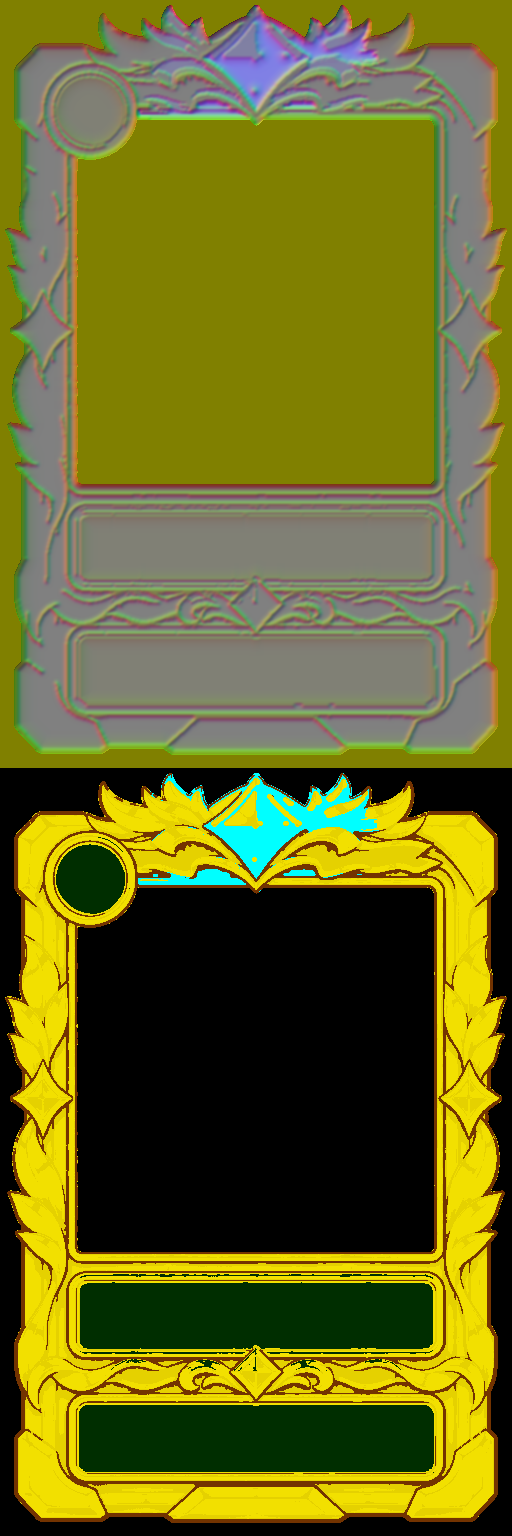
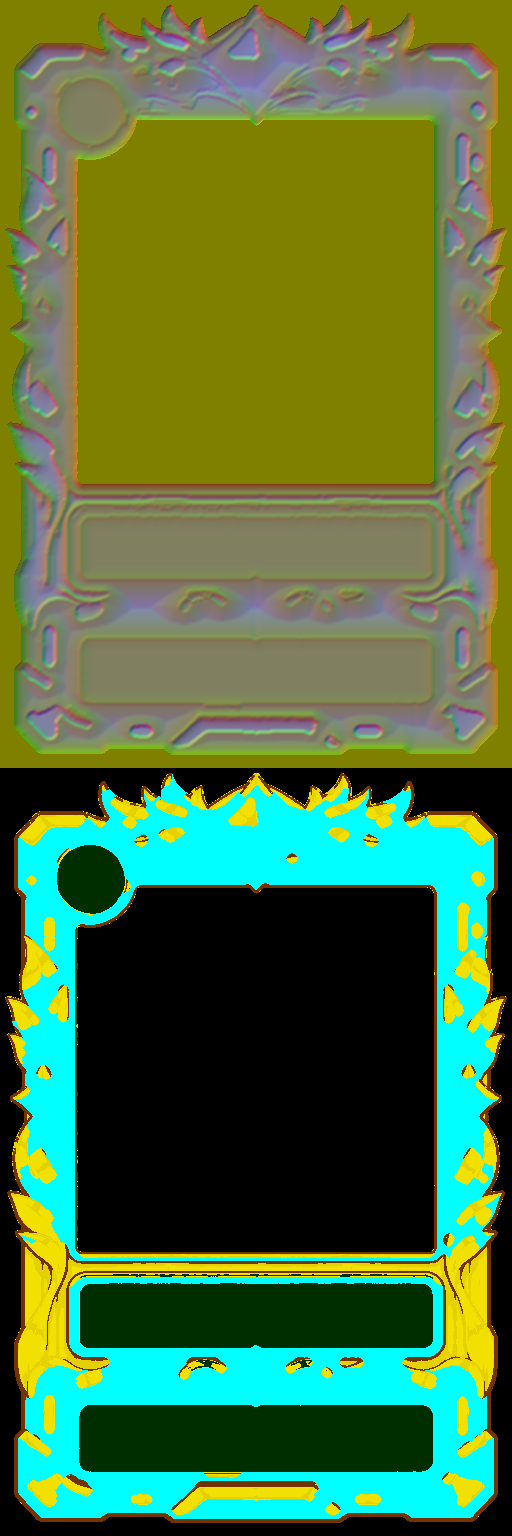
凹凸の地図を作り直す：宝石の穴・破片をなくしてカットした石の形に、部品を大きさに合わせてふくらませる
- 宝石は部品ごとに判定（大半が宝石の色なら、白いハイライトも含めて1つの石）。細い筋・小さな破片は外す
- 宝石はふちから真ん中へとがる形。部品は大きさに合わせて丸くふくらむ（以前は5pxだけ丸めて中は平ら）
- 輪郭線の溝を浅く。色の境目でも部品を分け、段差にする（輪郭線のない水晶の星など）
- ランクの裏：地の模様の色をあちこちで測って低くし、紋章を浮き上がらせる
- 3D はメッシュの高さを4点を混ぜてなめらかに読む

Claude-Session: https://claude.ai/code/session_01Lcti3QaRChBxaRVQgGtDFx

Changed region(s): [[0.0312, 0.0, 0.9688, 1.0]]

diff --git a/js/ui/precache.js b/js/ui/precache.js
@@ -1,2 +1,2 @@
-self.CF_CACHE_VERSION="759e413979fc1221";
+self.CF_CACHE_VERSION="76cab13a0dd17a6d";
 self.CF_ASSETS=["index.html","manifest.webmanifest","css/accessibility.css","css/account.css","css/battle.css","css/beast.css","css/card-base.css","css/card-zoom.css","css/chat.css","css/coin-toss.css","css/components.css","css/deck.css","css/experience.css","css/finishing-art.css","css/fit.css","css/help-guide.css","css/hologram.css","css/home-tabs.css","css/home.css","css/kingdom.css","css/layout.css","css/mana-growth.css","css/materials.css","css/motion.css","css/mp.css","css/polish.css","css/rank-frames.css","css/rank-rewards.css","css/rarity-assets.css","css/rarity-fx.css","css/settings.css","css/stage.css","css/step5.css","css/style.css","css/text-fit.css","css/theme.css","css/tokens.css","css/tutorial.css","css/weather.css","js/game/Card.js","js/game/Castle.js","js/game/Game.js","js/game/Monster.js","js/game/Player.js","js/game/Road.js","js/game/Setup.js","js/game/Soldier.js","js/game/Stage.js","js/game/Weather.js","js/game/strategies.js","js/game/visibility.js","js/main.js","js/ui/Accessibility.js","js/ui/Account.js","js/ui/AccountPanel.js","js/ui/Animations.js","js/ui/BattleLayout.js","js/ui/Card3D.js","js/ui/CardGL.js","js/ui/CardGuide.js","js/ui/CardInfo.js","js/ui/CardRelief.js","js/ui/CardZoom.js","js/ui/ChatView.js","js/ui/CollectionView.js","js/ui/Cosmetics.js","js/ui/DebugPanel.js","js/ui/DeckEditor.js","js/ui/DeckPreview.js","js/ui/DeckStore.js","js/ui/HandView.js","js/ui/HelpView.js","js/ui/Hologram.js","js/ui/Home.js","js/ui/LocalSetup.js","js/ui/MatchStats.js","js/ui/MaterialSkin.js","js/ui/MissionView.js","js/ui/Music.js","js/ui/OnlineClient.js","js/ui/ProfileView.js","js/ui/ProgressPanel.js","js/ui/Progression.js","js/ui/RankEmblem.js","js/ui/RankRewardsView.js","js/ui/RankedView.js","js/ui/Renderer.js","js/ui/RoomView.js","js/ui/Session.js","js/ui/Settings.js","js/ui/SocialView.js","js/ui/Sound.js","js/ui/Targeting.js","js/ui/Tutorial.js","js/ui/UpgradePanel.js","js/ui/WeatherView.js","js/ui/art.js","js/ui/cardFrame.js","js/ui/cardView.js","js/ui/config.js","js/ui/handOrder.js","js/ui/look.js","js/ui/motion.js","js/ui/musicScene.js","js/ui/pills.js","js/ui/profileArt.js","js/ui/rarity.js","js/ui/skinArt.js","js/ui/stories.js","js/ui/syncCheck.js","js/ui/text.js","js/vendor/three/BufferGeometryUtils.js","js/vendor/three/GLTFLoader.js","js/vendor/three/three.module.min.js","data/cards.json","data/castles.json","data/decks.json","data/gacha.json","data/missions.json","data/modes.json","data/monsters.json","data/profile.json","data/progression.json","data/ranks.json","data/rarities.json","data/rules.json","data/seasons.json","data/shop.json","data/stages.json","data/stamps.json","data/upgrades.json","data/weather.json","assets/asset-manifest.json","assets/bg/board-meadow-compact.png","assets/bg/board-meadow.png","assets/bg/board.png","assets/bg/home-account.png","assets/bg/home-castle.png","assets/bg/home-deck.png","assets/bg/home-gacha.png","assets/bg/home-settings.png","assets/bg/home-sky.png","assets/bg/kingdom-meadow.png","assets/bg/kingdom-valley.png","assets/bg/stage-dark-forest.png","assets/bg/stage-ice.png","assets/bg/stage-lava.png","assets/bg/stage-meadow.png","assets/bg/stage-ruins.png","assets/bg/title-compact.png","assets/bg/title.png","assets/cards/card-absolute-zero.png","assets/cards/card-adapt.png","assets/cards/card-antidote.png","assets/cards/card-apocalypse.png","assets/cards/card-apprentice-archer.png","assets/cards/card-apprentice-mage.png","assets/cards/card-archer.png","assets/cards/card-archmage.png","assets/cards/card-attack-dice.png","assets/cards/card-barrier.png","assets/cards/card-beast-bat.png","assets/cards/card-beast-demon-king.png","assets/cards/card-beast-demon.png","assets/cards/card-beast-dragon.png","assets/cards/card-beast-ghost.png","assets/cards/card-beast-goblin.png","assets/cards/card-beast-golem.png","assets/cards/card-beast-mimic.png","assets/cards/card-beast-skeleton.png","assets/cards/card-beast-slime.png","assets/cards/card-beast-treant.png","assets/cards/card-beast-vampire.png","assets/cards/card-big-shield.png","assets/cards/card-big-thunder.png","assets/cards/card-blessing.png","assets/cards/card-bolt.png","assets/cards/card-buff-dice.png","assets/cards/card-cavalry.png","assets/cards/card-coin-dice.png","assets/cards/card-death-mist.png","assets/cards/card-decoy.png","assets/cards/card-deep-freeze.png","assets/cards/card-desperate-shot.png","assets/cards/card-dragon-knight.png","assets/cards/card-earth-hammer.png","assets/cards/card-earth-king.png","assets/cards/card-earth-spirit.png","assets/cards/card-fire-king.png","assets/cards/card-fire-spirit.png","assets/cards/card-fireball.png","assets/cards/card-flame-sword.png","assets/cards/card-frost-breath.png","assets/cards/card-frozen-world.png","assets/cards/card-gate.png","assets/cards/card-giant.png","assets/cards/card-glacier.png","assets/cards/card-god-dice.png","assets/cards/card-god-shield.png","assets/cards/card-god-sword.png","assets/cards/card-goddess.png","assets/cards/card-gold-vein.png","assets/cards/card-great-earth-spirit.png","assets/cards/card-great-fire-spirit.png","assets/cards/card-great-heal.png","assets/cards/card-great-water-spirit.png","assets/cards/card-great-wind-spirit.png","assets/cards/card-heal-dice.png","assets/cards/card-heal.png","assets/cards/card-heavy.png","assets/cards/card-hero.png","assets/cards/card-holy-light.png","assets/cards/card-holy-shield.png","assets/cards/card-holy-sword.png","assets/cards/card-infantry.png","assets/cards/card-inferno.png","assets/cards/card-iron-sword.png","assets/cards/card-judgment.png","assets/cards/card-king-treasure.png","assets/cards/card-knight.png","assets/cards/card-life-steal.png","assets/cards/card-longbowman.png","assets/cards/card-mage.png","assets/cards/card-magic-sword.png","assets/cards/card-mana-crystal.png","assets/cards/card-mana-dice.png","assets/cards/card-mana-drop.png","assets/cards/card-mana-raid.png","assets/cards/card-mana-shard.png","assets/cards/card-mana-spring.png","assets/cards/card-meteor.png","assets/cards/card-minor-heal.png","assets/cards/card-paladin.png","assets/cards/card-plague.png","assets/cards/card-poison-mist.png","assets/cards/card-powder-keg.png","assets/cards/card-raijin.png","assets/cards/card-random-dice.png","assets/cards/card-reflect.png","assets/cards/card-sage.png","assets/cards/card-sandbag.png","assets/cards/card-scout.png","assets/cards/card-shield-dice.png","assets/cards/card-shield.png","assets/cards/card-sky-archer.png","assets/cards/card-sniper.png","assets/cards/card-sorcerer.png","assets/cards/card-spearman.png","assets/cards/card-starfall.png","assets/cards/card-steel-shield.png","assets/cards/card-stone-wall.png","assets/cards/card-thief.png","assets/cards/card-thunder.png","assets/cards/card-toxic-rain.png","assets/cards/card-treasure.png","assets/cards/card-venom.png","assets/cards/card-wall.png","assets/cards/card-water-king.png","assets/cards/card-water-spear.png","assets/cards/card-water-spirit.png","assets/cards/card-weather-call.png","assets/cards/card-wind-bow.png","assets/cards/card-wind-king.png","assets/cards/card-wind-spirit.png","assets/cards/card-world-tree-dew.png","assets/cards/frame-beast.png","assets/cards/frame-common.png","assets/cards/frame-epic.png","assets/cards/frame-legendary.png","assets/cards/frame-rare.png","assets/cards/frame-skin-bronze.png","assets/cards/frame-skin-champion.png","assets/cards/frame-skin-diamond.png","assets/cards/frame-skin-gold.png","assets/cards/frame-skin-iron.png","assets/cards/frame-skin-master.png","assets/cards/frame-skin-platinum.png","assets/cards/frame-skin-silver.png","assets/cards/frame-special.png","assets/cards/frame-uncommon.png","assets/cards/relief/frame-beast-raised.png","assets/cards/relief/frame-beast-relief.png","assets/cards/relief/frame-common-raised.png","assets/cards/relief/frame-common-relief.png","assets/cards/relief/frame-epic-raised.png","assets/cards/relief/frame-epic-relief.png","assets/cards/relief/frame-legendary-raised.png","assets/cards/relief/frame-legendary-relief.png","assets/cards/relief/frame-rare-raised.png","assets/cards/relief/frame-rare-relief.png","assets/cards/relief/frame-skin-bronze-raised.png","assets/cards/relief/frame-skin-bronze-relief.png","assets/cards/relief/frame-skin-champion-raised.png","assets/cards/relief/frame-skin-champion-relief.png","assets/cards/relief/frame-skin-diamond-raised.png","assets/cards/relief/frame-skin-diamond-relief.png","assets/cards/relief/frame-skin-gold-raised.png","assets/cards/relief/frame-skin-gold-relief.png","assets/cards/relief/frame-skin-iron-raised.png","assets/cards/relief/frame-skin-iron-relief.png","assets/cards/relief/frame-skin-master-raised.png","assets/cards/relief/frame-skin-master-relief.png","assets/cards/relief/frame-skin-platinum-raised.png","assets/cards/relief/frame-skin-platinum-relief.png","assets/cards/relief/frame-skin-silver-raised.png","assets/cards/relief/frame-skin-silver-relief.png","assets/cards/relief/frame-special-raised.png","assets/cards/relief/frame-special-relief.png","assets/cards/relief/frame-uncommon-raised.png","assets/cards/relief/frame-uncommon-relief.png","assets/cards/window-beast.png","assets/cards/window-common.png","assets/cards/window-epic.png","assets/cards/window-legendary.png","assets/cards/window-rare.png","assets/cards/window-special.png","assets/cards/window-uncommon.png","assets/castles/barracks-blue-damaged-1.png","assets/castles/barracks-blue-damaged-2.png","assets/castles/barracks-blue-damaged-3.png","assets/castles/barracks-blue.png","assets/castles/barracks-orange-damaged-1.png","assets/castles/barracks-orange-damaged-2.png","assets/castles/barracks-orange-damaged-3.png","assets/castles/barracks-orange.png","assets/castles/castle-blue-damaged-1.png","assets/castles/castle-blue-damaged-2.png","assets/castles/castle-blue-damaged-3.png","assets/castles/castle-blue-ruined.png","assets/castles/castle-blue.png","assets/castles/castle-orange-damaged-1.png","assets/castles/castle-orange-damaged-2.png","assets/castles/castle-orange-damaged-3.png","assets/castles/castle-orange-ruined.png","assets/castles/castle-orange.png","assets/castles/fortress-blue-damaged-1.png","assets/castles/fortress-blue-damaged-2.png","assets/castles/fortress-blue-damaged-3.png","assets/castles/fortress-blue.png","assets/castles/fortress-orange-damaged-1.png","assets/castles/fortress-orange-damaged-2.png","assets/castles/fortress-orange-damaged-3.png","assets/castles/fortress-orange.png","assets/castles/tower-blue-damaged-1.png","assets/castles/tower-blue-damaged-2.png","assets/castles/tower-blue-damaged-3.png","assets/castles/tower-blue.png","assets/castles/tower-orange-damaged-1.png","assets/castles/tower-orange-damaged-2.png","assets/castles/tower-orange-damaged-3.png","assets/castles/tower-orange.png","assets/frames/rank-frame-bronze.png","assets/frames/rank-frame-champion.png","assets/frames/rank-frame-diamond.png","assets/frames/rank-frame-gold.png","assets/frames/rank-frame-iron.png","assets/frames/rank-frame-master.png","assets/frames/rank-frame-platinum.png","assets/frames/rank-frame-silver.png","assets/fx/dust.png","assets/fx/evolve-1.png","assets/fx/evolve-2.png","assets/fx/evolve-3.png","assets/fx/explosion.png","assets/fx/fireball.png","assets/fx/fusion.png","assets/fx/heal.png","assets/fx/ice.png","assets/fx/lightning.png","assets/fx/lucky-reward.png","assets/fx/poison.png","assets/models/card-slab.glb","assets/profiles/archer.png","assets/profiles/hero.png","assets/profiles/infantry.png","assets/profiles/knight.png","assets/profiles/mage.png","assets/profiles/spearman.png","assets/ranks/rank-bronze.png","assets/ranks/rank-champion.png","assets/ranks/rank-diamond.png","assets/ranks/rank-gold.png","assets/ranks/rank-iron.png","assets/ranks/rank-master.png","assets/ranks/rank-platinum.png","assets/ranks/rank-silver.png","assets/skins/back-crimson-raised.png","assets/skins/back-crimson.png","assets/skins/back-forest-raised.png","assets/skins/back-forest.png","assets/skins/back-gold-raised.png","assets/skins/back-gold.png","assets/skins/back-rank-bronze-raised.png","assets/skins/back-rank-bronze-relief.png","assets/skins/back-rank-bronze.png","assets/skins/back-rank-champion-raised.png","assets/skins/back-rank-champion-relief.png","assets/skins/back-rank-champion.png","assets/skins/back-rank-diamond-raised.png","assets/skins/back-rank-diamond-relief.png","assets/skins/back-rank-diamond.png","assets/skins/back-rank-gold-raised.png","assets/skins/back-rank-gold-relief.png","assets/skins/back-rank-gold.png","assets/skins/back-rank-iron-raised.png","assets/skins/back-rank-iron-relief.png","assets/skins/back-rank-iron.png","assets/skins/back-rank-master-raised.png","assets/skins/back-rank-master-relief.png","assets/skins/back-rank-master.png","assets/skins/back-rank-platinum-raised.png","assets/skins/back-rank-platinum-relief.png","assets/skins/back-rank-platinum.png","assets/skins/back-rank-silver-raised.png","assets/skins/back-rank-silver-relief.png","assets/skins/back-rank-silver.png","assets/skins/back-royal-raised.png","assets/skins/back-royal.png","assets/skins/castle-crimson.png","assets/skins/castle-forest.png","assets/skins/castle-frost.png","assets/skins/castle-gold.png","assets/skins/castle-shadow.png","assets/skins/fx-azure.png","assets/skins/fx-emerald.png","assets/skins/fx-gold.png","assets/skins/fx-violet.png","assets/skins/icon-dragon-knight.png","assets/skins/icon-giant.png","assets/skins/icon-paladin.png","assets/skins/icon-sage.png","assets/skins/icon-scout.png","assets/skins/icon-sniper.png","assets/skins/title-hunter.png","assets/skins/title-legend.png","assets/skins/title-lucky.png","assets/skins/title-rookie.png","assets/skins/title-wall.png","assets/skins/unit-crimson.png","assets/skins/unit-forest.png","assets/skins/unit-frost.png","assets/skins/unit-gold.png","assets/skins/unit-royal.png","assets/skins/unit-shadow.png","assets/skins/win-aurora.png","assets/skins/win-gold.png","assets/skins/win-sakura.png","assets/ui/app-icon-192.png","assets/ui/app-icon-512.png","assets/ui/app-icon-maskable-512.png","assets/ui/apple-touch-icon.png","assets/ui/banner-win.png","assets/ui/btn-blue.png","assets/ui/btn-cream.png","assets/ui/btn-green.png","assets/ui/btn-orange.png","assets/ui/btn-red.png","assets/ui/btn-round.png","assets/ui/button-end-turn.png","assets/ui/card-back.png","assets/ui/home/casual.png","assets/ui/home/catalog.png","assets/ui/home/deck.png","assets/ui/home/friend.png","assets/ui/home/gacha.png","assets/ui/home/mission.png","assets/ui/home/profile.png","assets/ui/home/rank.png","assets/ui/home/ranking.png","assets/ui/home/settings.png","assets/ui/home/shop.png","assets/ui/home/skin.png","assets/ui/icon-coin.png","assets/ui/icon-earth.png","assets/ui/icon-fire.png","assets/ui/icon-heart.png","assets/ui/icon-help.png","assets/ui/icon-kind-defense.png","assets/ui/icon-kind-soldier.png","assets/ui/icon-kind-spell.png","assets/ui/icon-kind-weapon.png","assets/ui/icon-kind-wild.png","assets/ui/icon-luck.png","assets/ui/icon-mode-local.png","assets/ui/icon-mode-online.png","assets/ui/icon-mode-solo.png","assets/ui/icon-mp.png","assets/ui/icon-rarity-common.png","assets/ui/icon-rarity-epic.png","assets/ui/icon-rarity-legendary.png","assets/ui/icon-rarity-rare.png","assets/ui/icon-rarity-special.png","assets/ui/icon-rarity-uncommon.png","assets/ui/icon-water.png","assets/ui/icon-wind.png","assets/ui/kingdom-crest.png","assets/ui/kingdom-parchment.png","assets/ui/kingdom-platform.png","assets/ui/kingdom-primary.png","assets/ui/kingdom-secondary.png","assets/ui/kingdom-wood.png","assets/ui/logo.png","assets/ui/natural/danger-40-left.png","assets/ui/natural/danger-40-middle.png","assets/ui/natural/danger-40-right.png","assets/ui/natural/danger-44-left.png","assets/ui/natural/danger-44-middle.png","assets/ui/natural/danger-44-right.png","assets/ui/natural/danger-72-left.png","assets/ui/natural/danger-72-middle.png","assets/ui/natural/danger-72-right.png","assets/ui/natural/frame.png","assets/ui/natural/leather-tile.png","assets/ui/natural/neutral-40-left.png","assets/ui/natural/neutral-40-middle.png","assets/ui/natural/neutral-40-right.png","assets/ui/natural/neutral-44-left.png","assets/ui/natural/neutral-44-middle.png","assets/ui/natural/neutral-44-right.png","assets/ui/natural/neutral-72-left.png","assets/ui/natural/neutral-72-middle.png","assets/ui/natural/neutral-72-right.png","assets/ui/natural/neutral-wide-full.png","assets/ui/natural/oak-tile.png","assets/ui/natural/paper-tile.png","assets/ui/natural/primary-40-left.png","assets/ui/natural/primary-40-middle.png","assets/ui/natural/primary-40-right.png","assets/ui/natural/primary-44-left.png","assets/ui/natural/primary-44-middle.png","assets/ui/natural/primary-44-right.png","assets/ui/natural/primary-72-left.png","assets/ui/natural/primary-72-middle.png","assets/ui/natural/primary-72-right.png","assets/ui/natural/primary-wide-full.png","assets/ui/natural/round-neutral.png","assets/ui/natural/round-selected.png","assets/ui/natural/selected-40-left.png","assets/ui/natural/selected-40-middle.png","assets/ui/natural/selected-40-right.png","assets/ui/natural/selected-44-left.png","assets/ui/natural/selected-44-middle.png","assets/ui/natural/selected-44-right.png","assets/ui/natural/selected-72-left.png","assets/ui/natural/selected-72-middle.png","assets/ui/natural/selected-72-right.png","assets/ui/panel-parchment.png","assets/ui/result-defeat.png","assets/ui/result-victory.png","assets/ui/sign-hp.png","assets/ui/stamps/again.png","assets/ui/stamps/gg.png","assets/ui/stamps/go.png","assets/ui/stamps/hello.png","assets/ui/stamps/nice.png","assets/ui/stamps/ouch.png","assets/ui/stamps/scared.png","assets/ui/stamps/smug.png","assets/ui/stamps/sorry.png","assets/ui/stamps/thanks.png","assets/ui/stamps/think.png","assets/ui/stamps/yay.png","assets/ui/tap-plate.png","assets/ui/title-castle-blue.png","assets/ui/title-castle-orange.png","assets/ui/title-infantry-orange.png","assets/ui/title-knight-blue.png","assets/ui/weather-coin-rain.png","assets/ui/weather-fog.png","assets/ui/weather-heavy-rain.png","assets/ui/weather-rain.png","assets/ui/weather-sandstorm.png","assets/ui/weather-storm.png","assets/ui/weather-sunny.png","assets/units/apprentice-archer-blue.png","assets/units/apprentice-archer-orange.png","assets/units/apprentice-mage-blue.png","assets/units/apprentice-mage-orange.png","assets/units/archer-blue.png","assets/units/archer-orange.png","assets/units/archmage-blue.png","assets/units/archmage-orange.png","assets/units/cavalry-blue.png","assets/units/cavalry-orange.png","assets/units/dragon-knight-blue.png","assets/units/dragon-knight-orange.png","assets/units/earth-spirit.png","assets/units/fire-spirit.png","assets/units/giant-blue.png","assets/units/giant-orange.png","assets/units/great-earth-spirit.png","assets/units/great-fire-spirit.png","assets/units/great-water-spirit.png","assets/units/great-wind-spirit.png","assets/units/heavy-blue.png","assets/units/heavy-orange.png","assets/units/hero-blue.png","assets/units/hero-orange.png","assets/units/infantry-blue.png","assets/units/infantry-orange.png","assets/units/knight-blue.png","assets/units/knight-orange.png","assets/units/longbowman-blue.png","assets/units/longbowman-orange.png","assets/units/mage-blue.png","assets/units/mage-orange.png","assets/units/monster-bat.png","assets/units/monster-demon-king.png","assets/units/monster-demon.png","assets/units/monster-dragon.png","assets/units/monster-ghost.png","assets/units/monster-goblin.png","assets/units/monster-golem.png","assets/units/monster-mimic.png","assets/units/monster-skeleton.png","assets/units/monster-slime.png","assets/units/monster-treant.png","assets/units/monster-vampire.png","assets/units/paladin-blue.png","assets/units/paladin-orange.png","assets/units/sage-blue.png","assets/units/sage-orange.png","assets/units/scout-blue.png","assets/units/scout-orange.png","assets/units/sky-archer-blue.png","assets/units/sky-archer-orange.png","assets/units/sniper-blue.png","assets/units/sniper-orange.png","assets/units/sorcerer-blue.png","assets/units/sorcerer-orange.png","assets/units/spearman-blue.png","assets/units/spearman-orange.png","assets/units/water-spirit.png","assets/units/wind-spirit.png"];

diff --git a/js/ui/build-card-relief.js b/js/ui/build-card-relief.js
@@ -35,7 +35,7 @@ const FRAMES = {
   uncommon:  { base: { metal: .05, smooth: .3 }, gold: { metal: .65, smooth: .6 }, organic: [70, 170], gemHue: [80, 170], raised: [[150, 0, 362, 130]], paper: SHARED_PARCHMENT },
   rare:      { base: { metal: .8, smooth: .7 }, silver: { metal: .9, smooth: .82 }, gemHue: [180, 240], raised: [[150, 0, 362, 130]], paper: SHARED_PARCHMENT },
   epic:      { base: { metal: .65, smooth: .78 }, silver: { metal: .9, smooth: .86 }, gold: { metal: .9, smooth: .86 }, gemHue: [255, 310], raised: [[150, 0, 362, 130]], paper: SHARED_PARCHMENT },
-  legendary: { base: { metal: .15, smooth: .35 }, gold: { metal: 1, smooth: .92 }, cloth: [330, 25], gemHue: [330, 25], raised: [[150, 0, 362, 130]], paper: SHARED_PARCHMENT },
+  legendary: { base: { metal: .15, smooth: .35 }, gold: { metal: 1, smooth: .92 }, cloth: [330, 25], gemHue: [335, 10], raised: [[150, 0, 362, 130]], paper: SHARED_PARCHMENT },   // 宝石は赤だけ（金の影の濃いオレンジを宝石にしない）
   special:   { base: { metal: .55, smooth: .9 }, silver: { metal: .7, smooth: .92 }, gemHue: [190, 340], gemMinSat: .18, raised: [[150, 0, 362, 130]], paper: SHARED_PARCHMENT },
   beast:     { base: { metal: .45, smooth: .75 }, gold: { metal: .9, smooth: .82 }, silver: { metal: .8, smooth: .7 }, gemHue: [335, 15], gemMinSat: .45, raised: [[150, 0, 362, 150]], paper: { name: [.15, .85, .752], stats: [.12, .88, .852, .917], medals: [[.192, .141]] } },
 };
@@ -75,14 +75,19 @@ function buildBackRaised(png) {
 // ランク報酬のカード裏の凹凸：材質（金・銀・宝石の色）は同じランクの表の設定を使い、地（真ん中の模様）は金属にしない。
 // 浮かせる部品は、上下の飾り・左右の宝石・真ん中の紋章（BACK_RAISED と同じ範囲）。羊皮紙はない
 // 裏の宝石の色：金・銅の裏は、オレンジがかった金の飾りを宝石にしないよう、赤みの強い色だけにする
-const BACK_GEMS = { gold: { gemHue: [345, 24], gemMinSat: .55 }, bronze: { gemHue: null } };
+const BACK_GEMS = { gold: { gemHue: [345, 24], gemMinSat: .55 }, bronze: { gemHue: null }, iron: { groundTolerance: .045 } };   // アイアンは紋章も地も灰色なので、地の判定を厳しく
 function backReliefConfig(rank) {
   const box = ([x0, y0, x1, y1]) => [x0 * 512, y0 * 768, x1 * 512, y1 * 768];
   const [ex, ey, rx, ry] = BACK_RAISED.emblem;
   return {
-    ...SKINS[rank], base: { metal: .25, smooth: .45 }, maxRaisedPart: .012,   // 地の模様の大きな面は浮かせない（飾り・宝石だけ）
+    ...SKINS[rank], base: { metal: .25, smooth: .45 }, maxRaisedPart: .05,
+    // 地の模様だけが写っている小さな範囲（紋章・飾りのない、四すみ寄りの内側）。ここの色に近い部品は地として浮かせない
+    groundSamples: [[.14, .17, .2, .21], [.22, .17, .28, .21], [.72, .17, .78, .21], [.8, .17, .86, .21],
+      [.14, .27, .2, .31], [.8, .27, .86, .31], [.14, .69, .2, .73], [.8, .69, .86, .73],
+      [.14, .79, .2, .83], [.22, .79, .28, .83], [.72, .79, .78, .83], [.8, .79, .86, .83]],
     raised: [box(BACK_RAISED.top), box(BACK_RAISED.bottom), ...BACK_RAISED.sides.map(box), box([ex - rx, ey - ry, ex + rx, ey + ry])],
     paper: { name: [0, 0, -1], medals: [] },
+    colorEdges: .09, groundAmp: .3,                    // 地の模様は低く（紋章・飾りを浮き上がらせる）                                   // 輪郭線のない光る水晶の星も、1つの部品としてふくらませる
     goldMinVal: .68, maxGemPart: .0025,               // 宝石は小さな石だけ（地の格子模様は宝石にしない）                                   // 地の茶色は金属にしない（明るい金の飾りだけ）
     ...BACK_GEMS[rank],
   };
@@ -250,6 +255,36 @@ export function buildRelief(png, cfg) {
     const minArea = 14 * sx * sx;
     for (const part of specks) if (part.pixels.length < minArea) for (const j of part.pixels) outline[j] = 0;
   }
+  // 輪郭線は細い線だけ。太い暗い面（暗い色で塗った部品）は輪郭線にしない（溝にすると、暗い所ほど低くなってしまう）
+  {
+    const notLine = new Uint8Array(N); for (let i = 0; i < N; i++) notLine[i] = outline[i] ? 0 : 1;
+    const thick = distance(W, H, notLine, 99);
+    const { parts: lines } = label(W, H, outline);
+    for (const part of lines) {
+      let wide = 0;
+      for (const j of part.pixels) if (thick[j] > 3.5 * sx) wide++;
+      if (wide > part.pixels.length * .25) for (const j of part.pixels) outline[j] = 0;
+    }
+  }
+  // 色の強い境目（cfg.colorEdges：明るさの差の閾値）：黒い輪郭線のない絵（光る水晶の星と暗い地など）でも、部品を分けるのに使う。
+  // 溝の材質にはしない（輪郭線ではないので）。小さな点は外す
+  const cut = Uint8Array.from(outline);
+  if (cfg.colorEdges) {
+    const lum = new Float32Array(N);
+    for (let i = 0; i < N; i++) lum[i] = (data[i * 4] * .3 + data[i * 4 + 1] * .59 + data[i * 4 + 2] * .11) / 255;
+    const L = blur(W, H, lum, 1);
+    const at = (x, y) => L[Math.min(H - 1, Math.max(0, y)) * W + Math.min(W - 1, Math.max(0, x))];
+    const edge = new Uint8Array(N);
+    for (let y = 0; y < H; y++) for (let x = 0; x < W; x++) {
+      const i = y * W + x;
+      if (!solid[i]) continue;
+      const gx = at(x + 1, y - 1) + 2 * at(x + 1, y) + at(x + 1, y + 1) - at(x - 1, y - 1) - 2 * at(x - 1, y) - at(x - 1, y + 1);
+      const gy = at(x - 1, y + 1) + 2 * at(x, y + 1) + at(x + 1, y + 1) - at(x - 1, y - 1) - 2 * at(x, y - 1) - at(x + 1, y - 1);
+      edge[i] = Math.hypot(gx, gy) / 4 > cfg.colorEdges ? 1 : 0;
+    }
+    const { parts: bits } = label(W, H, edge);
+    for (const part of bits) if (part.pixels.length >= 14 * sx * sx) for (const j of part.pixels) cut[j] = 1;
+  }
   // 名前の帯・メダル（羊皮紙）
   const inPaper = (x, y) => {
     const u = x / W, v = y / H;
@@ -261,7 +296,7 @@ export function buildRelief(png, cfg) {
   };
   // 手前に浮かせる部品：輪郭線で区切った部品のうち、85% 以上が範囲の中にあるもの
   const inner = new Uint8Array(N);
-  for (let i = 0; i < N; i++) inner[i] = solid[i] && !outline[i] ? 1 : 0;
+  for (let i = 0; i < N; i++) inner[i] = solid[i] && !cut[i] ? 1 : 0;
   // 宝石の色とそれ以外は、輪郭線がうすくても別の部品として分ける（宝石が台座ごと枠につながらないように）
   const gemMinSat = cfg.gemMinSat ?? .35;
   const gemLike = new Uint8Array(N);
@@ -270,10 +305,31 @@ export function buildRelief(png, cfg) {
   const rects = (cfg.raised ?? []).map(px);
   const inRects = (x, y) => rects.some(([x0, y0, x1, y1]) => x >= x0 && x <= x1 && y >= y0 && y <= y1);
   const raisedPart = new Uint8Array(parts.length);
+  const insideFrac = new Float32Array(parts.length);   // 浮かせる範囲の中にある割合
+  // 地の色（cfg.groundSamples：地の模様だけが写っている小さな範囲の一覧。割合）。どれかの色に近い部品は「地」で、浮かせない
+  // （格子の明るいマス・暗いマスのように、地が何色かあっても拾えるよう、あちこちで測る）
+  const groundColors = [];
+  for (const [gx0, gy0, gx1, gy1] of cfg.groundSamples ?? []) {
+    const sum = [0, 0, 0]; let n = 0;
+    for (let y = Math.round(gy0 * H); y < gy1 * H; y++) for (let x = Math.round(gx0 * W); x < gx1 * W; x++) {
+      const i = y * W + x;
+      if (!solid[i] || cut[i]) continue;
+      for (let c = 0; c < 3; c++) sum[c] += data[i * 4 + c];
+      n++;
+    }
+    if (n) groundColors.push(sum.map((v) => v / n / 255));
+  }
+  const groundPart = new Uint8Array(parts.length);
   parts.forEach((part, id) => {
     let inside = 0;
     for (const j of part.pixels) { const x = j % W; if (inRects(x, (j - x) / W)) inside++; }
-    raisedPart[id] = part.pixels.length < N * (cfg.maxRaisedPart ?? .2) && inside / part.pixels.length >= .85 ? 1 : 0;
+    insideFrac[id] = inside / part.pixels.length;
+    if (groundColors.length) {
+      const mean = [0, 0, 0];
+      for (const j of part.pixels) for (let c = 0; c < 3; c++) mean[c] += data[j * 4 + c] / 255 / part.pixels.length;
+      groundPart[id] = groundColors.some((g) => Math.hypot(...mean.map((v, c) => v - g[c])) < (cfg.groundTolerance ?? .09)) ? 1 : 0;
+    }
+    raisedPart[id] = !groundPart[id] && part.pixels.length < N * (cfg.maxRaisedPart ?? .2) && inside / part.pixels.length >= .85 ? 1 : 0;
   });
   let raised = new Uint8Array(N);
   for (let i = 0; i < N; i++) if (lab[i] >= 0 && raisedPart[lab[i]]) raised[i] = 1;
@@ -282,6 +338,26 @@ export function buildRelief(png, cfg) {
     const toRaised = distance(W, H, raised, 99);
     for (let i = 0; i < N; i++) if (outline[i] && toRaised[i] <= 4.5 * sx) { const x = i % W; if (inRects(x, (i - x) / W)) raised[i] = 1; }
   }
+  // 部品の中の、輪郭線・透明な所からの距離（部品をふくらませる・宝石の大きさを測るのに使う）
+  const pillowZero = new Uint8Array(N); for (let i = 0; i < N; i++) pillowZero[i] = !solid[i] || cut[i] ? 1 : 0;
+  const pillow = distance(W, H, pillowZero, 999);
+  const partMax = new Float32Array(parts.length);
+  for (let i = 0; i < N; i++) if (lab[i] >= 0 && pillow[i] > partMax[lab[i]]) partMax[lab[i]] = pillow[i];
+  // 宝石：部品ごとに決める。部品の 6 割以上が宝石の色なら、白いハイライトも含めて部品全体を宝石にする
+  // （色だけで決めると、ハイライトが穴になって石の形が崩れ、金の影の赤い筋が宝石の破片になる）。細い筋・小さな破片は宝石にしない
+  const gemPart = new Uint8Array(parts.length);
+  if (cfg.gemHue) parts.forEach((part, id) => {
+    let colored = 0;
+    for (const j of part.pixels) colored += gemLike[j];
+    gemPart[id] = colored / part.pixels.length >= .6 && partMax[id] >= 2.5 * sx && part.pixels.length >= 40 * sx * sx && part.pixels.length <= N * .02 ? 1 : 0;
+  });
+  // 宝石のまわりの小さなハイライトの部品（宝石にかこまれた白い所）も宝石にする：宝石を 5px ふくらませて縮め直す（穴埋め）
+  const gemSeed = new Uint8Array(N);
+  for (let i = 0; i < N; i++) gemSeed[i] = lab[i] >= 0 && gemPart[lab[i]] ? 1 : 0;
+  const gemReach = distance(W, H, gemSeed, 99);
+  const grownGem = new Uint8Array(N); for (let i = 0; i < N; i++) grownGem[i] = gemReach[i] <= 5 * sx ? 1 : 0;
+  const gemBack = distance(W, H, grownGem.map((v) => v ? 0 : 1), 99);
+  const isGem = new Uint8Array(N); for (let i = 0; i < N; i++) isGem[i] = solid[i] && grownGem[i] && gemBack[i] > 5 * sx ? 1 : 0;
   // 材質
   const metal = new Float32Array(N), smooth = new Float32Array(N), gem = new Float32Array(N), paper = new Uint8Array(N);
   for (let i = 0; i < N; i++) {
@@ -289,8 +365,8 @@ export function buildRelief(png, cfg) {
     const x = i % W, y = (i - x) / W;
     const h = hue[i], s = sat[i], v = val[i];
     let m = cfg.base.metal, g = cfg.base.smooth;
-    if (outline[i]) { m *= .5; g = .2; }
-    else if (raised[i] && gemLike[i]) { gem[i] = 1; m = 0; g = 1; }
+    if (isGem[i]) { gem[i] = 1; m = 0; g = 1; }
+    else if (outline[i]) { m *= .5; g = .2; }
     else if (inPaper(x, y) && s < .42 && v > .66 && h >= 18 && h <= 60) { paper[i] = 1; m = 0; g = .18; }
     else if (cfg.gold && h >= 30 && h <= 62 && s > .35 && v > (cfg.goldMinVal ?? .5)) { m = cfg.gold.metal; g = cfg.gold.smooth; }
     else if (cfg.silver && s < .2 && v > .5) { m = cfg.silver.metal; g = cfg.silver.smooth; }
@@ -303,32 +379,78 @@ export function buildRelief(png, cfg) {
     const mask = new Uint8Array(N); for (let i = 0; i < N; i++) mask[i] = gem[i] ? 1 : 0;
     for (const part of label(W, H, mask).parts) if (part.pixels.length > N * cfg.maxGemPart) for (const j of part.pixels) { gem[j] = 0; metal[j] = cfg.base.metal; smooth[j] = cfg.base.smooth; }
   }
-  // 宝石は輪郭線のすき間を埋めて、1つの丸い石にする
-  {
-    const gemMask = new Uint8Array(N); for (let i = 0; i < N; i++) gemMask[i] = gem[i] ? 1 : 0;
-    const out = distance(W, H, gemMask, 99);
-    const grown = new Uint8Array(N); for (let i = 0; i < N; i++) grown[i] = out[i] <= 2.5 * sx && raised[i] ? 1 : 0;
-    const back = distance(W, H, grown.map(v => v ? 0 : 1), 99);
-    for (let i = 0; i < N; i++) if (grown[i] && back[i] > 2.5 * sx) { gem[i] = 1; metal[i] = 0; smooth[i] = 1; }
-  }
   // 高さ
+  //   枠の形の丸み ＋ 部品ごとのふくらみ（部品の大きさに合わせる。大きい部品ほど高く、まんじゅうのように丸く）
+  //   ＋ 宝石（ふちから真ん中へとがる、カットした石の形）＋ 浮かせる部品
   const transparent = solid.map(v => v ? 0 : 1);
   const big = distance(W, H, transparent, 999);
-  const pillowZero = new Uint8Array(N); for (let i = 0; i < N; i++) pillowZero[i] = !solid[i] || outline[i] ? 1 : 0;
-  const pillow = distance(W, H, pillowZero, 999);
   const paperDome = distance(W, H, paper.map(v => v ? 0 : 1), 999);
   const gemZero = new Uint8Array(N); for (let i = 0; i < N; i++) gemZero[i] = gem[i] ? 0 : 1;
   const gemDome = distance(W, H, gemZero, 999);
+  const gemLab = label(W, H, gem.map((v) => v ? 1 : 0));
+  const gemMax = new Float32Array(gemLab.parts.length);
+  for (let i = 0; i < N; i++) if (gemLab.lab[i] >= 0 && gemDome[i] > gemMax[gemLab.lab[i]]) gemMax[gemLab.lab[i]] = gemDome[i];
+  const partAmp = new Float32Array(parts.length);
+  parts.forEach((part, id) => {
+    let amp = Math.min(.42, Math.max(.07, partMax[id] / (34 * sx)));
+    // 地の大きな面は、ゆるくふくらませるだけ。ただし紋章・王冠など浮かせる範囲の中の部品は、大きくてもしっかりふくらませる
+    if (part.pixels.length > N * .03 && insideFrac[id] < .85) amp = Math.min(amp, .2);
+    // 浮かせない部品（地の模様など）は低く（cfg.groundAmp 倍）。紋章・飾りが地からはっきり浮き上がるように
+    if (cfg.groundAmp != null && !raisedPart[id]) amp *= cfg.groundAmp;
+    partAmp[id] = amp;
+  });
   const height = new Float32Array(N);
-  const Rb = 22 * sx, Rp = 5 * sx, Rpaper = 16 * sx, Rg = 11 * sx;
+  const Rb = 22 * sx, Rpaper = 16 * sx;
   for (let i = 0; i < N; i++) {
     if (!solid[i]) continue;
-    let h = .3 * bevel(big[i] / Rb) + .2 * bevel(pillow[i] / Rp);
+    let h = .22 * bevel(big[i] / Rb);
+    const id = lab[i];
+    if (id >= 0 && partMax[id] > 0) h += partAmp[id] * bevel(pillow[i] / partMax[id]);
     // 紙は、絵の汚しで凹凸を作らず、全体をゆるくふくらませるだけ（光は弱く広く）
-    if (paper[i]) h = .3 * bevel(big[i] / Rb) + .16 * bevel(paperDome[i] / Rpaper);
-    if (gem[i]) h += .26 * bevel(gemDome[i] / Rg);
-    if (raised[i]) h += .14;
+    if (paper[i]) h = .22 * bevel(big[i] / Rb) + .16 * bevel(paperDome[i] / Rpaper);
+    if (gem[i]) {
+      const g = gemLab.lab[i] >= 0 ? gemMax[gemLab.lab[i]] : 0;
+      h = .22 * bevel(big[i] / Rb) + .12 + (g > 0 ? .34 * Math.min(1, gemDome[i] / g) : 0);   // ふちから真ん中へ、まっすぐ高くなる（カット面）
+    }
+    if (raised[i]) h += .1;
     height[i] = h;
+  }
+  // 輪郭線の溝は浅めにする（となりの部品の低い方の高さの半分まで上げる）。深い溝にすると「暗い所ほど低い」になり、
+  // 明るさがそのまま高さに見えてしまう（ui-tests/card-relief.test.js の「高さが明るさと相関しすぎない」）
+  {
+    const next = Float32Array.from(height);
+    for (let y = 0; y < H; y++) for (let x = 0; x < W; x++) {
+      const i = y * W + x;
+      if (!solid[i] || !outline[i] || gem[i]) continue;
+      let low = Infinity;
+      for (let dy = -2; dy <= 2; dy++) for (let dx = -2; dx <= 2; dx++) {
+        const xx = x + dx, yy = y + dy;
+        if (xx < 0 || yy < 0 || xx >= W || yy >= H) continue;
+        const j = yy * W + xx;
+        if (solid[j] && !cut[j] && height[j] < low) low = height[j];
+      }
+      if (low < Infinity && low > height[i]) next[i] = height[i] + (low - height[i]) * .5;
+    }
+    height.set(next);
+  }
+  // 色の境目（輪郭線ではない区切り）は溝にしない：となりの部品の低い方の高さにそろえて、段差にする
+  if (cfg.colorEdges) {
+    for (let pass = 0; pass < 3; pass++) {
+      const next = Float32Array.from(height);
+      for (let y = 0; y < H; y++) for (let x = 0; x < W; x++) {
+        const i = y * W + x;
+        if (!solid[i] || !cut[i] || outline[i] || gem[i]) continue;
+        let low = Infinity;
+        for (let dy = -1; dy <= 1; dy++) for (let dx = -1; dx <= 1; dx++) {
+          const xx = x + dx, yy = y + dy;
+          if (xx < 0 || yy < 0 || xx >= W || yy >= H) continue;
+          const j = yy * W + xx;
+          if (solid[j] && (!cut[j] || pass > 0) && height[j] > 0 && height[j] < low) low = height[j];
+        }
+        if (low < Infinity && low > height[i]) next[i] = low;
+      }
+      height.set(next);
+    }
   }
   const hs = blur(W, H, blur(W, H, height, 1), 1);
   for (let i = 0; i < N; i++) if (!solid[i]) hs[i] = 0;   // 透明な所はかならず0（元の絵と形をそろえる）

diff --git a/js/ui/CardGL.js b/js/ui/CardGL.js
@@ -191,6 +191,14 @@ function surfaceMesh(THREE, { reliefImg, raisedImg, place, uvAt, pick, glitter, 
   const raised = pixels(raisedImg, sw, sh).data;
   const [nx, ny] = GRID;
   const at = (u, v, row) => ((Math.min(sh - 1, Math.round(v * (sh - 1))) + row) * sw + Math.min(sw - 1, Math.round(u * (sw - 1)))) * 4;
+  // 高さは、まわりの4点を混ぜてなめらかに読む（最寄りの1点だけだと、なだらかな面が段々になる）
+  const smooth = (data, u, v, channel) => {
+    const fx = u * (sw - 1), fy = v * (sh - 1);
+    const x0 = Math.floor(fx), y0 = Math.floor(fy), x1 = Math.min(sw - 1, x0 + 1), y1 = Math.min(sh - 1, y0 + 1);
+    const tx = fx - x0, ty = fy - y0;
+    const p = (x, y) => data[(y * sw + x) * 4 + channel];
+    return (p(x0, y0) * (1 - tx) + p(x1, y0) * tx) * (1 - ty) + (p(x0, y1) * (1 - tx) + p(x1, y1) * tx) * ty;
+  };
   const count = (nx + 1) * (ny + 1);
   const positions = new Float32Array(count * 3);
   const uvs = new Float32Array(count * 2);
@@ -199,7 +207,7 @@ function surfaceMesh(THREE, { reliefImg, raisedImg, place, uvAt, pick, glitter, 
     for (let i = 0; i <= nx; i++) {
       const k = j * (nx + 1) + i;
       const u = i / nx, v = j / ny;
-      const lift = relief[at(u, v, 0) + 2] / 255 * RELIEF_HEIGHT + raised[at(u, v, 0) + 3] / 255 * RAISED_HEIGHT;
+      const lift = smooth(relief, u, v, 2) / 255 * RELIEF_HEIGHT + smooth(raised, u, v, 3) / 255 * RAISED_HEIGHT;
       const [x, y] = place(u, v);
       positions.set([x, y, 0.0015 + lift], k * 3);
       uvs.set(uvAt(u, v), k * 2);
